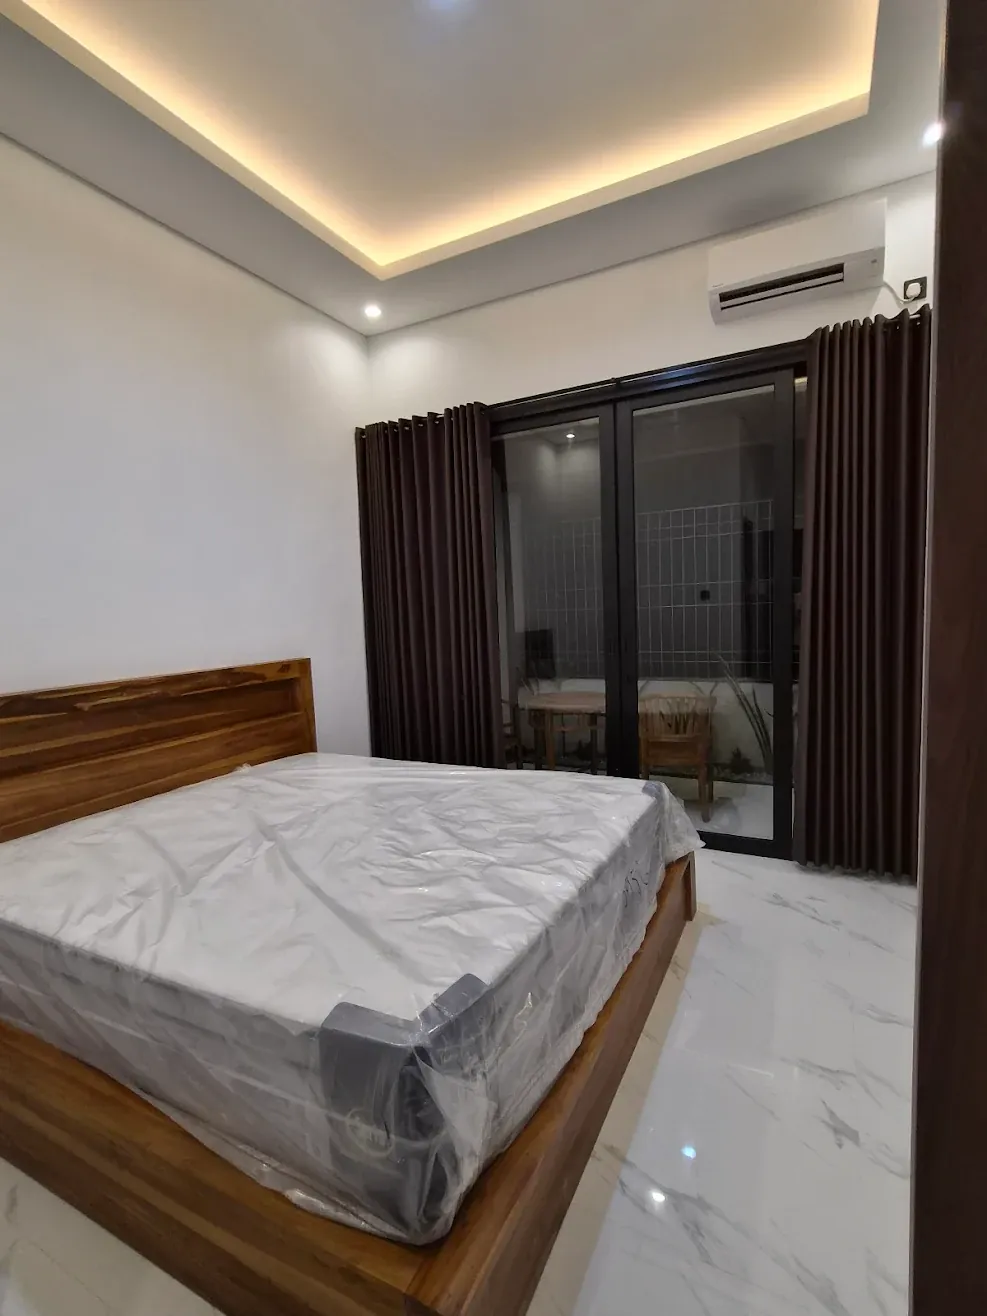
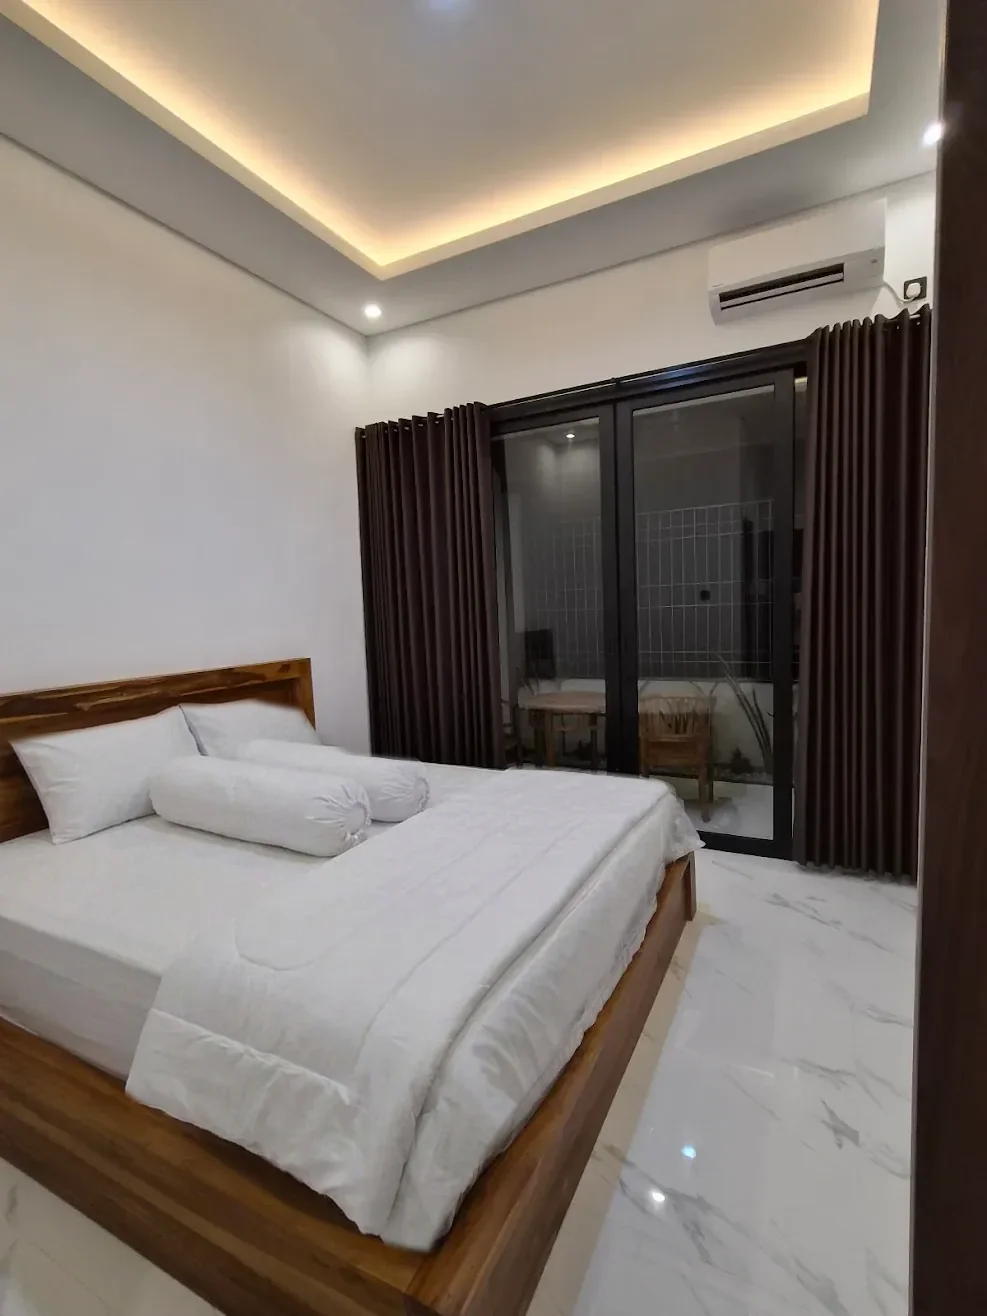
Update residence bedroom photo with made-up bed (masked composite)
- residence-bedroom-1.webp: only the plastic-wrapped mattress area replaced
  (white sheets, 2 pillows, 2 bolsters, folded duvet); rest of the room is the
  original photo (MAE outside mask 0.69, independently re-measured)
- Homepages & residence pages (EN/ID): ?v=2 cache-buster

Changed region(s): [[0.0, 0.5296, 0.6991, 0.9658], [0.5775, 0.5608, 0.6383, 0.6231]]

diff --git a/id/index.html b/id/index.html
@@ -413,7 +413,7 @@
       <a href="#villa" class="gallery-item"><img loading="lazy" decoding="async" src="../assets/villa/villa-bathroom-marble-1.webp" alt="INNerpeace Villa bathroom"><span class="gallery-tag">Villa</span></a>
       <a href="#villa" class="gallery-item"><img loading="lazy" decoding="async" src="../assets/villa/villa-terrace-view-1.webp" alt="INNerpeace Villa terrace"><span class="gallery-tag">Villa</span></a>
       <a href="#residence" class="gallery-item"><img loading="lazy" decoding="async" src="../assets/residence/residence-exterior-night-1.webp" alt="INNerpeace Residence exterior"><span class="gallery-tag">Residence</span></a>
-      <a href="#residence" class="gallery-item"><img loading="lazy" decoding="async" src="../assets/residence/residence-bedroom-1.webp" alt="INNerpeace Residence bedroom"><span class="gallery-tag">Residence</span></a>
+      <a href="#residence" class="gallery-item"><img loading="lazy" decoding="async" src="../assets/residence/residence-bedroom-1.webp?v=2" alt="INNerpeace Residence bedroom"><span class="gallery-tag">Residence</span></a>
       <a href="#residence" class="gallery-item"><img loading="lazy" decoding="async" src="../assets/residence/residence-wardrobe-1.webp" alt="INNerpeace Residence wardrobe"><span class="gallery-tag">Residence</span></a>
     </div>
   </div>

diff --git a/index.html b/index.html
@@ -413,7 +413,7 @@
       <a href="#villa" class="gallery-item"><img loading="lazy" decoding="async" src="assets/villa/villa-bathroom-marble-1.webp" alt="INNerpeace Villa bathroom"><span class="gallery-tag">Villa</span></a>
       <a href="#villa" class="gallery-item"><img loading="lazy" decoding="async" src="assets/villa/villa-terrace-view-1.webp" alt="INNerpeace Villa terrace"><span class="gallery-tag">Villa</span></a>
       <a href="#residence" class="gallery-item"><img loading="lazy" decoding="async" src="assets/residence/residence-exterior-night-1.webp" alt="INNerpeace Residence exterior"><span class="gallery-tag">Residence</span></a>
-      <a href="#residence" class="gallery-item"><img loading="lazy" decoding="async" src="assets/residence/residence-bedroom-1.webp" alt="INNerpeace Residence bedroom"><span class="gallery-tag">Residence</span></a>
+      <a href="#residence" class="gallery-item"><img loading="lazy" decoding="async" src="assets/residence/residence-bedroom-1.webp?v=2" alt="INNerpeace Residence bedroom"><span class="gallery-tag">Residence</span></a>
       <a href="#residence" class="gallery-item"><img loading="lazy" decoding="async" src="assets/residence/residence-wardrobe-1.webp" alt="INNerpeace Residence wardrobe"><span class="gallery-tag">Residence</span></a>
     </div>
   </div>

diff --git a/id/residence/index.html b/id/residence/index.html
@@ -297,7 +297,7 @@
       <h2 style="margin-top:14px">Satu tipe kamar, lengkap fasilitasnya.</h2>
     </div>
     <div class="room-showcase reveal">
-      <img src="../../assets/residence/residence-bedroom-1.webp" alt="INNerpeace Residence room">
+      <img src="../../assets/residence/residence-bedroom-1.webp?v=2" alt="INNerpeace Residence room">
       <div class="room-info">
         <div class="price"><span id="res-price-amount">Rp 3,000,000</span> <span id="res-price-unit">/ bulan</span></div>
         <p class="lede" style="margin-top:6px;">8 kamar yang identik — harga sama, fasilitas sama.</p>

diff --git a/residence/index.html b/residence/index.html
@@ -294,7 +294,7 @@
       <h2 style="margin-top:14px">One room type, fully equipped.</h2>
     </div>
     <div class="room-showcase reveal">
-      <img src="../assets/residence/residence-bedroom-1.webp" alt="INNerpeace Residence room">
+      <img src="../assets/residence/residence-bedroom-1.webp?v=2" alt="INNerpeace Residence room">
       <div class="room-info">
         <div class="price"><span id="res-price-amount">Rp 3,000,000</span> <span id="res-price-unit">/ month</span></div>
         <p class="lede" style="margin-top:6px;">8 identical rooms — same price, same facilities.</p>
